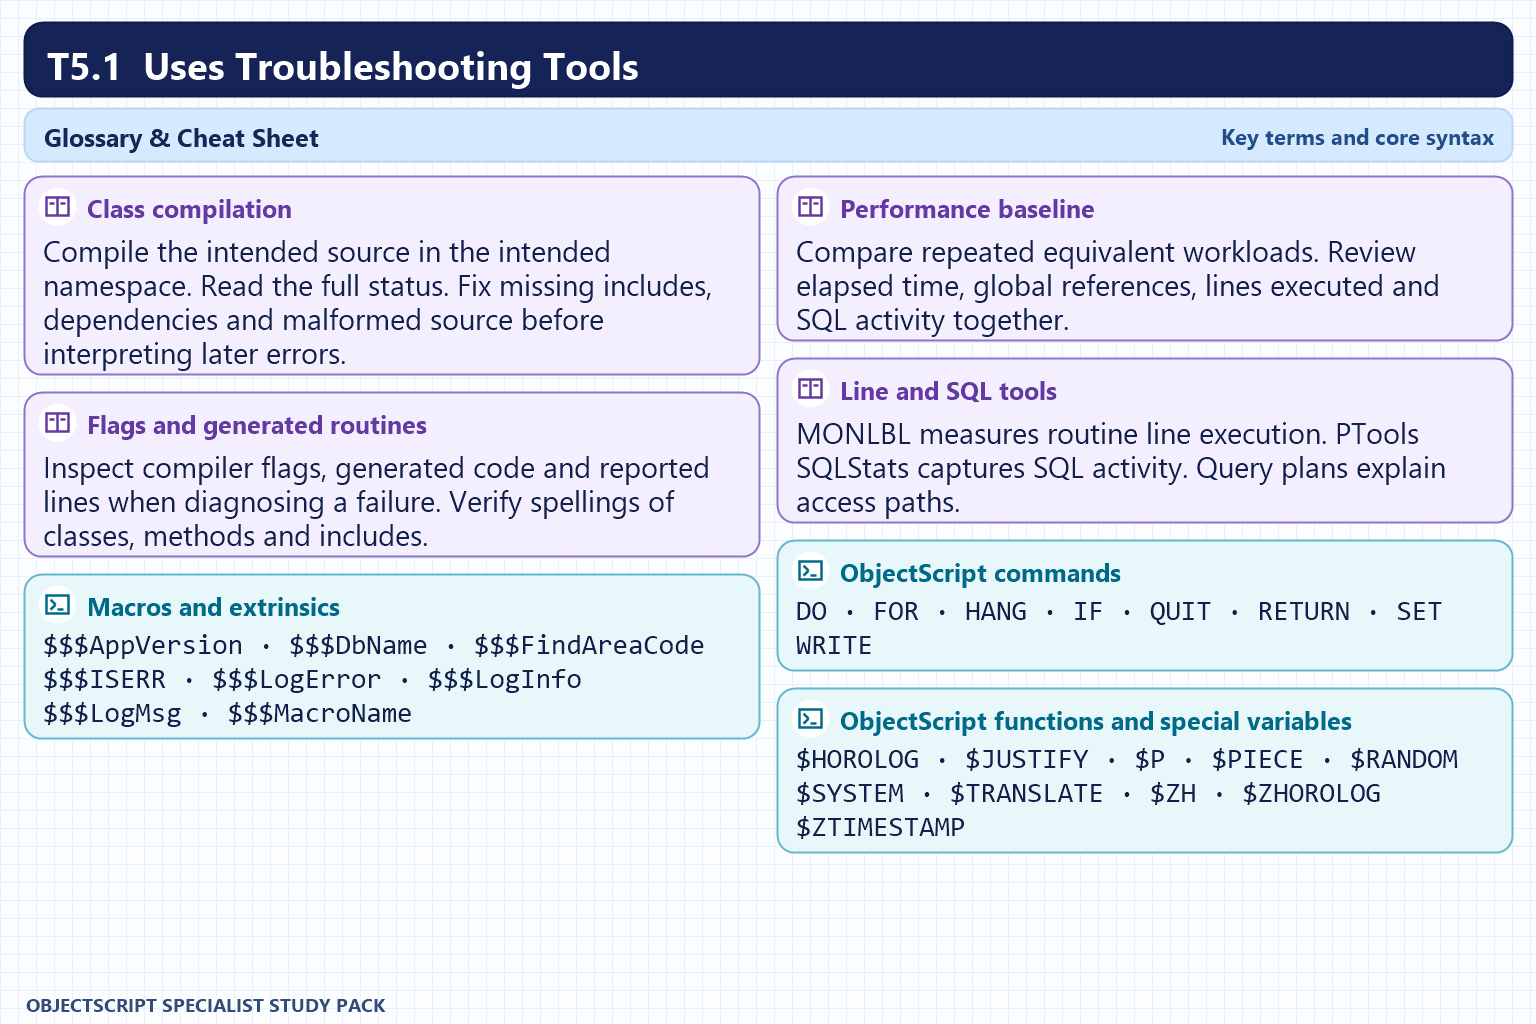
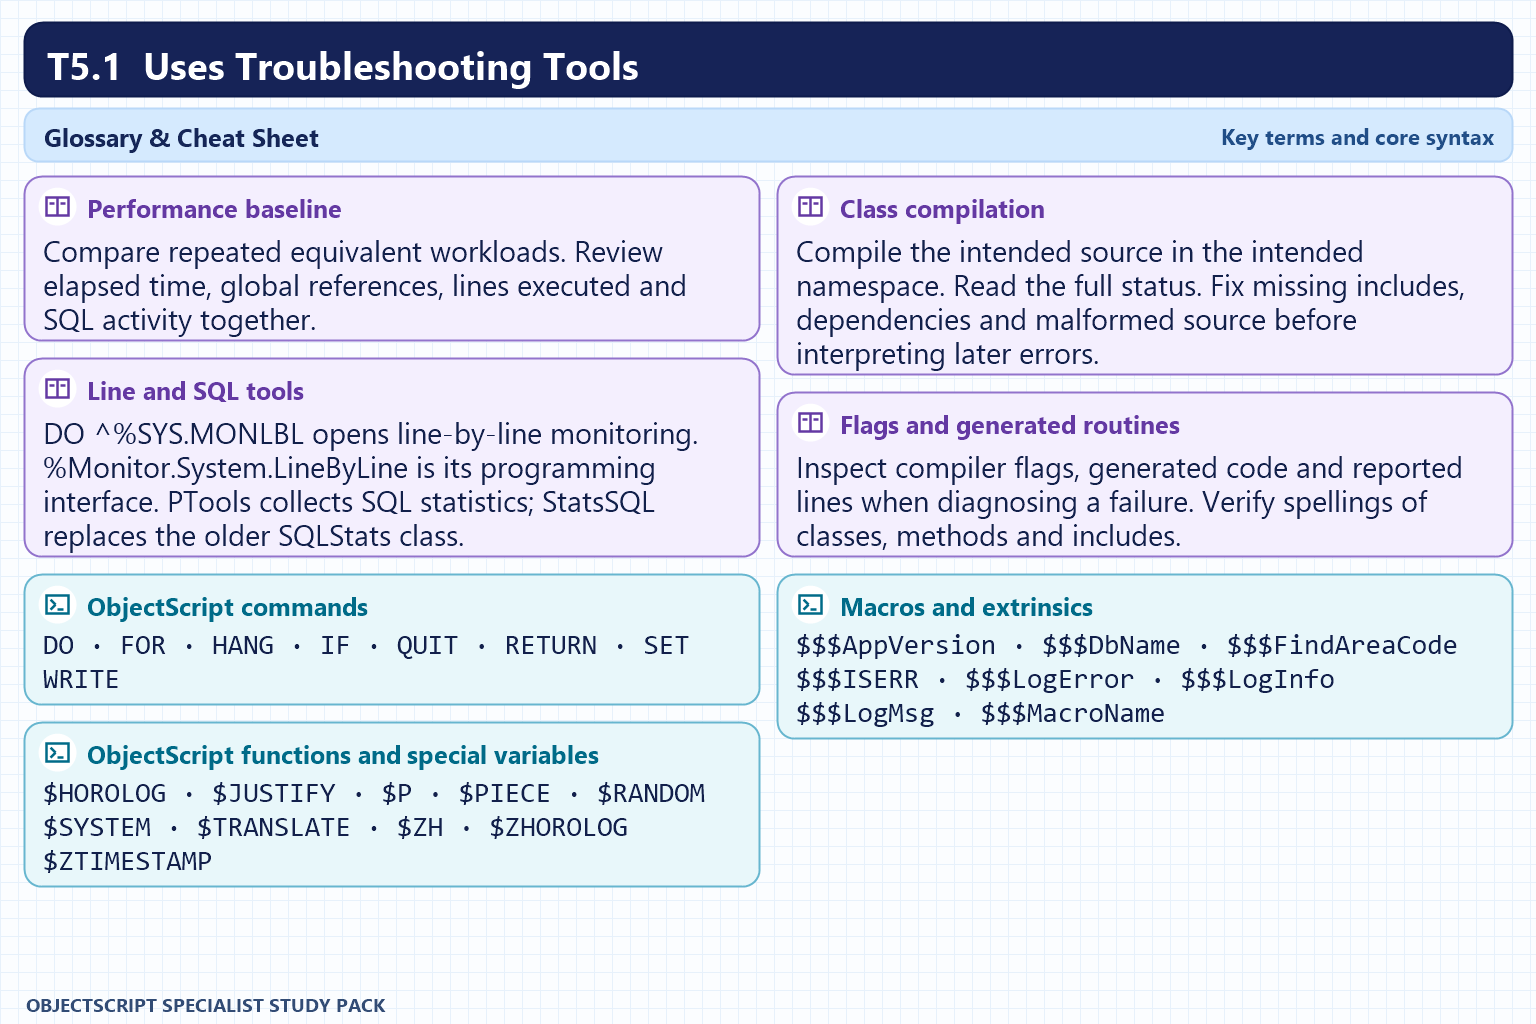
fix(tutor): verify glossary references

Changed region(s): [[0.0, 0.1875, 1.0, 0.875], [0.9688, 0.6562, 1.0, 0.6875], [0.4688, 0.8438, 0.5, 0.875]]

diff --git a/ObjectScript Study Pack/T5 - Error Handling/T5.3 - Diagnoses Common Errors/study.md b/ObjectScript Study Pack/T5 - Error Handling/T5.3 - Diagnoses Common Errors/study.md
@@ -20,10 +20,6 @@ Saved 2 November 2026 from [exam-prep.es](https://exam-prep.es/exams/objectscrip
 
 [Glossary & Cheat Sheet](#glossary--cheat-sheet)
 
-[Glossary & Cheat Sheet](#glossary--cheat-sheet)
-
-[Glossary & Cheat Sheet](#glossary--cheat-sheet)
-
 ### Visual study guide — sections 1–3
 
 ![T5.3 visual summary of sections 1–3: 1. <SUBSCRIPT> errors; 2. <PROTECT> errors; 3. <FRAMESTACK> errors](visual-guide-01.png)
@@ -1190,7 +1186,7 @@ ClassMethod IndirectionError()
 - **&lt;SUBSCRIPT&gt; and &lt;UNDEFINED&gt;** — Check subscript validity and initialization. Use $DATA for presence and $GET when a missing value has a meaningful default.
 - **&lt;PROTECT&gt; and &lt;FRAMESTACK&gt;** — Check namespace mapping and privilege for the failing operation. For stack exhaustion check base cases, recursion depth and cycles.
 - **&lt;INVALID OREF&gt;** — Check construction and open results. Use $ISOBJECT before accessing object members if the reference may be invalid.
-- **Missing class, method or property** — Check exact names, namespace, compilation and dispatch kind. Inspect source and compiled metadata and the concrete type.
+- **Missing class, method or property** — Check names, namespace, compilation and dispatch kind. Inspect metadata and verify qualified system calls, such as $SYSTEM.SQL.Stats.Table.GatherTableStats().
 - **&lt;SYNTAX&gt;** — Fix the earliest error. Check brackets, braces, arguments, postconditionals and indirection. Recompile after correcting the source.
 
 ### Commands, methods and syntax
@@ -1199,12 +1195,12 @@ ClassMethod IndirectionError()
 - **ObjectScript functions and special variables** — `$EXTRACT`, `$FIND`, `$JOB`, `$LB`, `$LENGTH`, `$LIST`, `$LISTBUILD`, `$LISTGET`, `$LISTLENGTH`, `$ORDER`, `$PIECE`, `$ROLES`, `$SELECT`, `$SYSTEM`, `$USERNAME`, `$XECUTE`, `$ZCONVERT`.
 - **Macros and extrinsics** — `$$$ERROR`, `$$$GeneralError`, `$$$ISERR`, `$$$OK`, `$$$ThrowOnError`.
 - **IRIS classes and packages** — `%Dictionary.ClassDefinition`, `%Dictionary.MethodDefinition`, `%Dictionary.PropertyDefinition`, `%Exception.General`, `%SQL.Statement`, `%Stream.FileCharacter`, `%SYS.Namespace`.
-- **Qualified calls and terminal utilities** — `$SYSTEM.Process.SetStackSize()`, `$SYSTEM.SQL.Stats.GatherTableStats()`, `$SYSTEM.SQL.Stats.Table.GatherTableStats()`.
+- **Qualified calls and terminal utilities** — `$SYSTEM.SQL.Stats.Table.GatherTableStats()`.
 - **Method names and generated entry points** — `%ClassName()`, `%ExistsId()`, `%IsA()`, `%New()`, `%OpenId()`, `%Prepare()`, `%Save()`, `AsStatus()`, `GetGlobalDest()`, `LinkToFile()`, `MyMethod()`, `ReadLine()`, `SendConfirmation()`, `SetAt()`, `Walk()`.
 - **Error and lookup syntax** — `<SUBSCRIPT>`, `<PROTECT>`, `<FRAMESTACK>`, `<UNDEFINED>`, `<INVALID OREF>`, `<CLASS DOES NOT EXIST>`, `<METHOD DOES NOT EXIST>`, `<PROPERTY DOES NOT EXIST>`, `<SYNTAX>`.
 - **Dispatch and inspection** — `##class`, `$METHOD`, `$CLASSMETHOD`, `$PROPERTY`, `@`, `XECUTE`, `ZN`, `ZNAMESPACE`, `$DATA`, `$GET`, `$ISOBJECT`.
 - **Methods defined in chapter examples** — `BadFactorial()`, `BraceError()`, `BuildTree()`, `CallerBug()`, `CanWrite()`, `CheckDatabaseAccess()`, `CompileError()`, `ComputeAverage()`, `ConditionalBug()`, `ConditionalFixed()`, `CreatePerson()`, `DataCheckExamples()`, `DeepRecursiveProcess()`, `DisplayPerson()`, `DisplayPersonSafe()`, `DynamicCall()`, `DynamicCodeError()`, `Factorial()`, `GetPropertyValue()`, `GetPropertyValueSafe()`, `IndirectionError()`, `LoadOrders()`, `OpenRecord()`, `OrefScopeIssue()`, `ProcessA()`, `ProcessB()`, `ProcessExample()`, `ProcessFile()`, `ProcessItem()`, `ProcessItems()`, `ProcessItemsSafe()`, `ProcessList()`, `ProcessOrder()`, `ProcessRecord()`, `QueryExample()`, `SafeAccessExamples()`, `SafeCreateObject()`, `SafeRecursion()`, `SaveData()`, `SavePerson()`, `StoreValue()`, `TraverseList()`, `TraverseTree()`, `TraverseTreeIterative()`, `TypoExample()`, `UndefinedExample()`, `UpdatePatients()`.
-- **Incorrect forms in the exercises** — `Preapre()`, `Save()`.
+- **Incorrect forms in the exercises** — `$SYSTEM.Process.SetStackSize()`, `$SYSTEM.SQL.Stats.GatherTableStats()`, `Preapre()`, `Save()`.
 
 Official reference: [ObjectScript errors](https://docs.intersystems.com/irislatest/csp/docbook/DocBook.UI.Page.cls?KEY=RCOS_errors).
 

diff --git a/ObjectScript Study Pack/T5 - Error Handling/T5.1 - Uses Troubleshooting Tools/study.md b/ObjectScript Study Pack/T5 - Error Handling/T5.1 - Uses Troubleshooting Tools/study.md
@@ -13,10 +13,6 @@ Saved 2 November 2026 from [exam-prep.es](https://exam-prep.es/exams/objectscrip
 
 [Glossary & Cheat Sheet](#glossary--cheat-sheet)
 
-[Glossary & Cheat Sheet](#glossary--cheat-sheet)
-
-[Glossary & Cheat Sheet](#glossary--cheat-sheet)
-
 ### Visual study guide — sections 1–2
 
 ![T5.1 visual summary of sections 1–2: 1. Tools for monitoring code performance; 2. Interprets class compilation errors](visual-guide-01-v2.png)
@@ -381,7 +377,7 @@ Common compilation error patterns and their causes:
 ### Key terms
 
 - **Performance baseline** — Compare repeated equivalent workloads. Review elapsed time, global references, lines executed and SQL activity together.
-- **Line and SQL tools** — MONLBL measures routine line execution. PTools SQLStats captures SQL activity. Query plans explain access paths.
+- **Line and SQL tools** — DO ^%SYS.MONLBL opens line-by-line monitoring. %Monitor.System.LineByLine is its programming interface. PTools collects SQL statistics; StatsSQL replaces the older SQLStats class.
 - **Class compilation** — Compile the intended source in the intended namespace. Read the full status. Fix missing includes, dependencies and malformed source before interpreting later errors.
 - **Flags and generated routines** — Inspect compiler flags, generated code and reported lines when diagnosing a failure. Verify spellings of classes, methods and includes.
 
@@ -390,11 +386,12 @@ Common compilation error patterns and their causes:
 - **ObjectScript commands** — `DO`, `FOR`, `HANG`, `IF`, `QUIT`, `RETURN`, `SET`, `WRITE`.
 - **ObjectScript functions and special variables** — `$HOROLOG`, `$JUSTIFY`, `$P`, `$PIECE`, `$RANDOM`, `$SYSTEM`, `$TRANSLATE`, `$ZH`, `$ZHOROLOG`, `$ZTIMESTAMP`.
 - **Macros and extrinsics** — `$$$AppVersion`, `$$$DbName`, `$$$FindAreaCode`, `$$$ISERR`, `$$$LogError`, `$$$LogInfo`, `$$$LogMsg`, `$$$MacroName`.
-- **IRIS classes and packages** — `%occStatus.inc`, `%SYSTEM.OBJ`.
+- **IRIS classes and packages** — `%occStatus.inc`, `%SYS.MONLBL`, `%SYSTEM.OBJ`.
 - **Qualified calls and terminal utilities** — `$SYSTEM.OBJ.Compile()`, `$SYSTEM.OBJ.CompileAll()`, `$SYSTEM.OBJ.CompileList()`, `$SYSTEM.OBJ.CompilePackage()`, `$SYSTEM.Status.DisplayError()`, `$SYSTEM.Status.GetErrorText()`, `$SYSTEM.Status.IsError()`.
 - **Method names and generated entry points** — `%ExecDirect()`, `%New()`, `%Prepare()`, `%Save()`, `%ShowPlan()`, `DisplayStats()`, `LogMsg()`, `MONLBL()`, `MyMethod()`, `Process()`, `ProcessBatch()`, `SetSQLStatsJob()`, `ShowFlags()`.
-- **Terminal and compiler syntax** — `ZN`, `ZNAMESPACE`, `DO ^PERFMON`, `MONLBL`, `Include`, `#include`, `#define`, `#if`, `%occStatus`, `r`, `d`, `b`, `y`.
-- **Diagnostics and SQL** — `%SQL.Statement`, `%SYS.PTools`, `%SYS.PTools.SQLStats`, `%SYS.MONLBL`, `SQLCODE`, `%msg`.
+- **Terminal and compiler syntax** — `ZN`, `ZNAMESPACE`, `DO ^PERFMON`, `DO ^%SYS.MONLBL`, `MONLBL`, `Include`, `#include`, `#define`, `#if`, `%occStatus`, `r`, `d`, `b`, `y`.
+- **Diagnostics and SQL** — `%SQL.Statement`, `%SYS.PTools`, `%SYS.PTools.SQLStats`, `%SYS.PTools.StatsSQL`, `%Monitor.System.LineByLine`, `SQLCODE`, `%msg`.
+- **Routine labels cited in the lesson** — `Start^%MONLBL`, `Stop^%MONLBL`, `Report^%MONLBL`.
 - **Methods defined in chapter examples** — `Calculate()`, `CompareApproaches()`, `Info()`, `ProcessAddress()`, `Run()`, `Save()`, `TimedOperation()`.
 - **Incorrect forms in the exercises** — `/sort=dependency`, `%Strig`, `%SYS.PTools.Start`, `%SYS.PTools.Start()`, `$SYSTEM.Performance.Start()`.
 

diff --git a/ObjectScript Study Pack/T1 - Manages Data Model/T1.2 - Creates Properties and Indexes/study.md b/ObjectScript Study Pack/T1 - Manages Data Model/T1.2 - Creates Properties and Indexes/study.md
@@ -18,10 +18,6 @@ Saved 2 November 2026 from [exam-prep.es](https://exam-prep.es/exams/objectscrip
 
 [Glossary & Cheat Sheet](#glossary--cheat-sheet)
 
-[Glossary & Cheat Sheet](#glossary--cheat-sheet)
-
-[Glossary & Cheat Sheet](#glossary--cheat-sheet)
-
 ### Visual study guide — sections 1–4
 
 ![T1.2 visual summary of sections 1–4: 1. Sets max length for string properties (MAXLEN parameter, TRUNCATE); 2. Uses stream properties for large data sets (%Stream.GlobalCharacter, %Stream.FileBinary); 3. Creates properties that calculate values dynamically or are auto-updated (Calculated, SqlComputed, SqlComputeOnChange); 4. Creates and validates class member parameters and attributes (Required, InitialExpression, parameter keywords)](visual-guide-01-v2.png)

diff --git a/ObjectScript Study Pack/T1 - Manages Data Model/T1.3 - Creates ObjectScript Methods/study.md b/ObjectScript Study Pack/T1 - Manages Data Model/T1.3 - Creates ObjectScript Methods/study.md
@@ -19,10 +19,6 @@ Saved 2 November 2026 from [exam-prep.es](https://exam-prep.es/exams/objectscrip
 
 [Glossary & Cheat Sheet](#glossary--cheat-sheet)
 
-[Glossary & Cheat Sheet](#glossary--cheat-sheet)
-
-[Glossary & Cheat Sheet](#glossary--cheat-sheet)
-
 ### Visual study guide — sections 1–4
 
 ![T1.3 visual summary of sections 1–4: 1. Differentiates between instance and class methods (Method vs ClassMethod, ..property syntax); 2. Uses class parameters inside methods (..#ParameterName); 3. Specifies method arguments and return type (As clause, Output, ByRef); 4. Passes objects to methods (oref passing)](visual-guide-01.png)

diff --git a/ObjectScript Study Pack/T1 - Manages Data Model/T1.4 - Uses Complex Structures/study.md b/ObjectScript Study Pack/T1 - Manages Data Model/T1.4 - Uses Complex Structures/study.md
@@ -13,10 +13,6 @@ Saved 2 November 2026 from [exam-prep.es](https://exam-prep.es/exams/objectscrip
 
 [Glossary & Cheat Sheet](#glossary--cheat-sheet)
 
-[Glossary & Cheat Sheet](#glossary--cheat-sheet)
-
-[Glossary & Cheat Sheet](#glossary--cheat-sheet)
-
 ### Visual study guide — sections 1–2
 
 ![T1.4 visual summary of sections 1–2: 1. Creates dynamic objects/arrays (JSON) - %DynamicObject, %DynamicArray, %FromJSON, %ToJSON; 2. Uses stream objects of the appropriate type (%Stream.GlobalCharacter, %Stream.GlobalBinary, %Stream.FileCharacter, %Stream.FileBinary, Write(), Read(), Rewind())](visual-guide-01.png)

diff --git a/ObjectScript Study Pack/T1 - Manages Data Model/T1.1 - Uses Classes/study.md b/ObjectScript Study Pack/T1 - Manages Data Model/T1.1 - Uses Classes/study.md
@@ -17,10 +17,6 @@ Saved 2 November 2026 from [exam-prep.es](https://exam-prep.es/exams/objectscrip
 
 [Glossary & Cheat Sheet](#glossary--cheat-sheet)
 
-[Glossary & Cheat Sheet](#glossary--cheat-sheet)
-
-[Glossary & Cheat Sheet](#glossary--cheat-sheet)
-
 ### Visual study guide — sections 1–3
 
 ![T1.1 visual summary of sections 1–3: 1. Identifies use cases for persistent and registered object classes; 2. Creates and saves a persistent object (%New(), %Save(), %Id()); 3. Deletes objects (%DeleteId(), %DeleteExtent())](visual-guide-01.png)

diff --git a/ObjectScript Study Pack/T4 - Functions & APIs/T4.1 - Traverses and Sorts Arrays/study.md b/ObjectScript Study Pack/T4 - Functions & APIs/T4.1 - Traverses and Sorts Arrays/study.md
@@ -15,10 +15,6 @@ Saved 2 November 2026 from [exam-prep.es](https://exam-prep.es/exams/objectscrip
 
 [Glossary & Cheat Sheet](#glossary--cheat-sheet)
 
-[Glossary & Cheat Sheet](#glossary--cheat-sheet)
-
-[Glossary & Cheat Sheet](#glossary--cheat-sheet)
-
 ### Visual study guide — sections 1–4
 
 ![T4.1 visual summary of sections 1–4: 1. Subscript sorting (canonical numeric order); 2. Traversing subscript subset with $ORDER; 3. Multi-level traversal with $ORDER; 4. $DATA to check node existence](visual-guide-01.png)

diff --git a/ObjectScript Study Pack/T2 - Basic Programming/T2.2 - Tracks Application Data/study.md b/ObjectScript Study Pack/T2 - Basic Programming/T2.2 - Tracks Application Data/study.md
@@ -14,10 +14,6 @@ Saved 2 November 2026 from [exam-prep.es](https://exam-prep.es/exams/objectscrip
 
 [Glossary & Cheat Sheet](#glossary--cheat-sheet)
 
-[Glossary & Cheat Sheet](#glossary--cheat-sheet)
-
-[Glossary & Cheat Sheet](#glossary--cheat-sheet)
-
 ### Visual study guide — sections 1–3
 
 ![T2.2 visual summary of sections 1–3: 1. Locates and accesses application globals; 2. Uses logging to track application data; 3. Adds and tracks metrics for performance monitoring](visual-guide-01-v3.png)

diff --git a/ObjectScript Study Pack/T4 - Functions & APIs/T4.2 - Manipulates Lists/study.md b/ObjectScript Study Pack/T4 - Functions & APIs/T4.2 - Manipulates Lists/study.md
@@ -14,10 +14,6 @@ Saved 2 November 2026 from [exam-prep.es](https://exam-prep.es/exams/objectscrip
 
 [Glossary & Cheat Sheet](#glossary--cheat-sheet)
 
-[Glossary & Cheat Sheet](#glossary--cheat-sheet)
-
-[Glossary & Cheat Sheet](#glossary--cheat-sheet)
-
 ### Visual study guide — sections 1–3
 
 ![T4.2 visual summary of sections 1–3: 1. $LIST/$LISTBUILD to insert, update, and delete list elements; 2. $LISTGET and $LISTNEXT for retrieval; 3. Converting lists to/from strings](visual-guide-01-v2.png)

diff --git a/ObjectScript Study Pack/T3 - IRIS Features/T3.4 - Handles Schema Evolution/study.md b/ObjectScript Study Pack/T3 - IRIS Features/T3.4 - Handles Schema Evolution/study.md
@@ -14,10 +14,6 @@ Saved 2 November 2026 from [exam-prep.es](https://exam-prep.es/exams/objectscrip
 
 [Glossary & Cheat Sheet](#glossary--cheat-sheet)
 
-[Glossary & Cheat Sheet](#glossary--cheat-sheet)
-
-[Glossary & Cheat Sheet](#glossary--cheat-sheet)
-
 ### Visual study guide — sections 1–3
 
 ![T3.4 visual summary of sections 1–3: 1. Adding indexes to existing properties; 2. Impact of changing property name or datatype; 3. Purging cached queries after schema changes](visual-guide-01.png)

diff --git a/ObjectScript Study Pack/T4 - Functions & APIs/T4.6 - Executes Methods and Queries Objects/study.md b/ObjectScript Study Pack/T4 - Functions & APIs/T4.6 - Executes Methods and Queries Objects/study.md
@@ -14,10 +14,6 @@ Saved 2 November 2026 from [exam-prep.es](https://exam-prep.es/exams/objectscrip
 
 [Glossary & Cheat Sheet](#glossary--cheat-sheet)
 
-[Glossary & Cheat Sheet](#glossary--cheat-sheet)
-
-[Glossary & Cheat Sheet](#glossary--cheat-sheet)
-
 ### Visual study guide — sections 1–3
 
 ![T4.6 visual summary of sections 1–3: 1. $METHOD and $CLASSMETHOD for dynamic dispatch; 2. %IsA and %ClassName for type checking; 3. %Dictionary for class inspection](visual-guide-01.png)

diff --git a/ObjectScript Study Pack/T3 - IRIS Features/T3.5 - Ensures Scalability and Performance/study.md b/ObjectScript Study Pack/T3 - IRIS Features/T3.5 - Ensures Scalability and Performance/study.md
@@ -14,10 +14,6 @@ Saved 2 November 2026 from [exam-prep.es](https://exam-prep.es/exams/objectscrip
 
 [Glossary & Cheat Sheet](#glossary--cheat-sheet)
 
-[Glossary & Cheat Sheet](#glossary--cheat-sheet)
-
-[Glossary & Cheat Sheet](#glossary--cheat-sheet)
-
 ### Visual study guide — sections 1–3
 
 ![T3.5 visual summary of sections 1–3: 1. TUNE TABLE for gathering table statistics; 2. Interpreting basic query plans; 3. Testing code correctness and performance](visual-guide-01.png)
